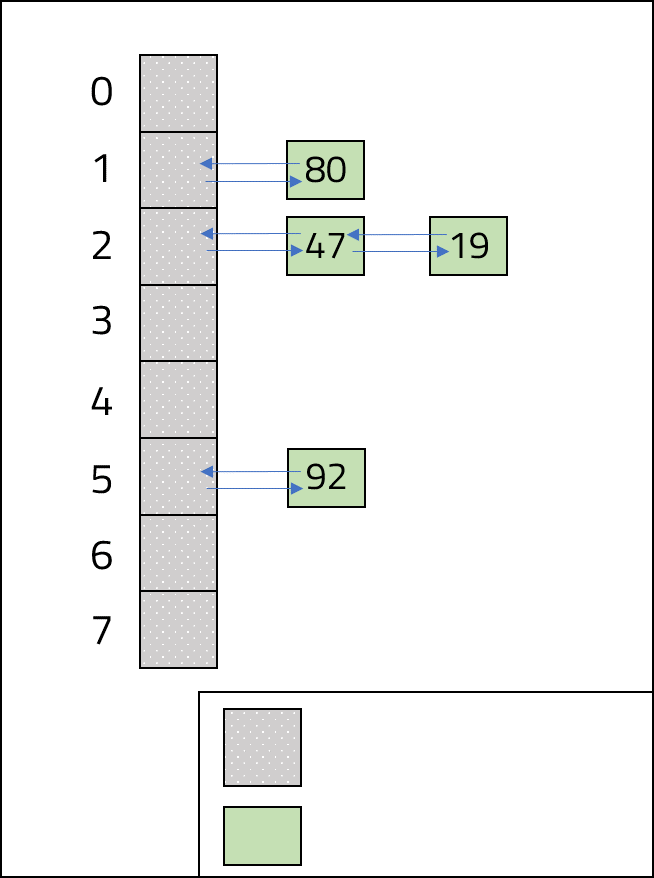
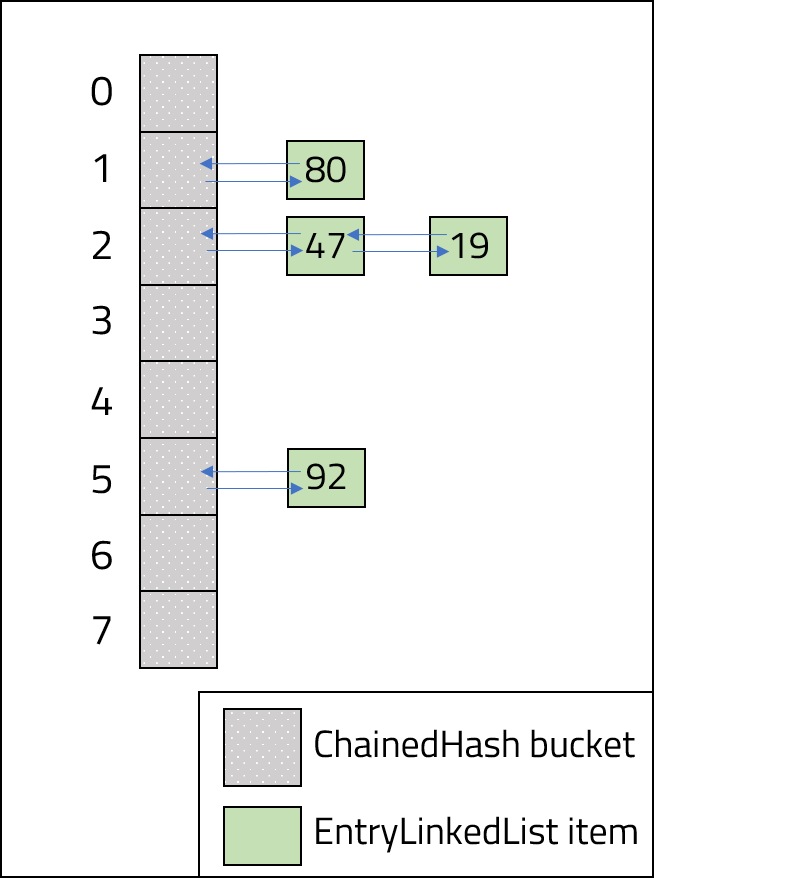
image update to post 6

Changed region(s): [[0.0917, 0.0615, 0.7951, 0.7688], [0.2446, 0.0, 1.0, 1.0], [0.367, 0.492, 0.581, 0.5843]]

diff --git a/src/pages/about.js b/src/pages/about.js
@@ -20,8 +20,8 @@ const AboutPage = () => (
         <CardBody>
           <p>Thank you for visiting my website.</p>
           <p>
-            I am a software engineer and enjoy building applications
-            with consideration to performance and optimization.
+            I am a software engineer and enjoy building full-stack applications, 
+            learning about the latest technologies and designing efficient algorithms.
           </p>
           <p>
             I completed my bachelors degree in Banking, Finance, and Management
@@ -49,7 +49,7 @@ const AboutPage = () => (
           <p>
             I currently work for Accenture as a software engineer. I have been
             able to build upon my skills in many areas, but focusing specifically with
-            Java and AWS. I continue to broaden my understanding of financial
+            Java, microservices and AWS. I continue to broaden my understanding of financial
             services; I actively participate in the UKI Blockchain
             community of practice and work predominantly with financial services
             clients.

diff --git a/src/blogInProgress/007_ChainingImplementation.md b/src/blogInProgress/007_ChainingImplementation.md
@@ -1,9 +1,10 @@
 ---
-title: 'Implementing closed addressing'
+title: 'Implementing chaining in hash tables'
 date: 2020-05-18 16:34:00
 author: 'Aneesh Mistry'
 featuredImage: ../images/007_Bariloche.jpg
-subtitle: 'Create a hash table that uses closed addressing to resolve hash collisions and rehashing to satisfy the load factor.'
+thumbnail: '../images/ChainedDiatn.jpg'
+subtitle: 'Create a hash table that uses chaining to resolve hash collisions and rehashing to enforce an optimal load factor.'
 time: '8'
 tags:
 - Java
@@ -11,44 +12,49 @@ tags:
 ---
 <br>
 <strong>Key Takeaways</strong><br>
-&#8226; Create a hash table that uses chaining to resolve hash collisions.<br>
-&#8226; Understand how LinkedLists can be used within the hash table.<br>
-&#8226; Use load factor to validate and update the number of buckets within the hash table.<br>
+&#8226; Write functions to enable a hash table to resolve collisions with chaining.<br>
+&#8226; Write a rehash function to recreate a hash table with a larger size.<br>
+&#8226; Use load factor to ensure the hash table has a sufficient number of buckets for its items.<br>
 
 <br>
 <h4>Chaining in a HashTable</h4>
 <p>
-Chaining, also known as closed addressing, is a technique used with hash tables and  hash maps to efficiently store the value of keys that have the same hash value.
-If you are unfamiliar with open and closed addressing, please visit my <a target="_blank" href="https://aneesh.co.uk/resolving-hash-collisions"><u>blog</u></a> where I explain their relationship with hash functions.<br>
-In this post, I will walk through the implementation of closed addressing whereby a hash table will allocate values into a LinkedList to resolve hash value collisions.
+Hash collisions occur within a hash table or hash map when multiple keys have the same output when run through the hash function. 
+Chaining, also known as closed addressing, is a technique used store the value of a key when a hash collision occurs.
+If you are unfamiliar with chaining, please visit my <a target="_blank" href="https://aneesh.co.uk/resolving-hash-collisions"><u>blog</u></a> where I explore hash collisions and solutions.<br>
+In this post, I will implement chaining with a hash table. The hash table will resolve collisions by storing the collided values into a LinkedList within the bucket.
 </p>
 
-<h4>Implementing chaining, step by step</h4>
+<h4>Implementing chaining</h4>
 <p>
-The chained hash table will consist of two classes: <code class="language-java">ChainedHash</code>, which will be the hash table, and <code class="language-java">EntryLinkedList</code>, which will be the LinkedList Object appended to each bucket of the ChainedHash.<br>
-A top-down view of the implementation is below:<br>
+The data structure that implements chaining will consist of two classes:<br>
+<code class="language-java">ChainedHash</code> is the hash table class.<br>
+<code class="language-java">EntryLinkedList</code> is the LinkedList Object appended to each bucket of the ChainedHash instance.<br>
+The diagram below illustrates how the two classes will be used together:<br>
 
-![Chained hash table diagram](../../src/images/007chainedDiagram.png)
+![Chained hash table diagram](../../src/images/007_chainedDiagram.png)
 
 <br>
-The ChainedHash will use the following methods:<br>
-&#8226; <strong>put(Key, Value)</strong> to place key-value pairs in the hash table.
-&#8226; <strong>hashFunction(Key)</strong> to calculate the hash value of the key.
-&#8226; <strong>validateLoadFactor()</strong> to ensure the upper bound load factor limit has not been breached through entries to the hash table.
+The ChainedHash class will use the following methods:<br>
+&#8226; <code class="language-java">put(key, value)</code> to place key-value pairs in the hash table.<br>
+&#8226; <code class="language-java">hashFunction(key)</code> to calculate the hash value of the key.<br>
+&#8226; <code class="language-java">validateLoadFactor()</code> to ensure the load factor of the hash table is monitored and adjusted as new entries are made.
 <br>
-The bucket at each hash table index will consist of an EntryLinkedList Object which contains the variables: key (String), value (int) and nextListEntry (EntryLinkedList). <code class="language-java">nextListEntry</code> will be used to create additional values in each bucket.
+The bucket at each hash table index will include an <code class="language-java">EntryLinkedList</code> instance which contains the variables:<br>
+<code class="language-java">String key</code> to store the key.<br>
+<code class="language-java">int value</code> to store the value.<br>
+<code class="language-java">EntryLinkedList nextListEntry</code> to link additional key-value pairs to the bucket.<br>
 </p>
 <strong>Class: EntryLinkedList</strong>
 <p>
-
-The EntryLinkedList constructor will instantiate the key, value and nextEntryPosition.
-There are getters and setters for the value and nextEntryPosition, and getter for the key.<br>
+The EntryLinkedList constructor will instantiate the key, value and nextListEntry.
+There are getters and setters for the value and nextListEntry, and a getter for the key.<br>
 
 ```java{numberLines: true}
     private String key;
     private int value;
     private EntryLinkedList nextListEntry;
-
+        
     EntryLinkedList(String key, int value) {
         this.key = key;
         this.value = value;
@@ -60,7 +66,7 @@ There are getters and setters for the value and nextEntryPosition, and getter fo
 <br>
 <strong>Class: ChainedHash</strong>
 <p>
-The ChainedHash class instantiates its buckets from the constructor. The MAX_LOAD_FACTOR is a constant value the load factor will be reviewed against. When the ChainedHash is created, all buckets are instantiated to null.
+The ChainedHash class instantiates its buckets from the constructor. <code class="language-java">MAX_LOAD_FACTOR</code> is a constant value the load factor will  remain under for the hash table. When the MAX_LOAD_FACTOR is breached by the hash table load factor, the hash table will rehash into a larger hash table. The constructor will instantiate all buckets to null.
 <br>
 
 ```java{numberLines: true}
@@ -82,10 +88,10 @@ The ChainedHash class instantiates its buckets from the constructor. The MAX_LOA
 ```
 
 <br>
-A hashFunction is created to calculate the hash value of the key. The method will sum the ascii values of the string and return the modulo of the sum against the number of buckets:<br>
+A <code class="language-java">hashFunction(String key)</code> method is used to calculate the hash value of the key passed in. The method will sum the ascii values of the String and return the modulo of the sum against the number of buckets:<br>
 
 ```java{numberLines: true}
-public static int hashFunction(String key) {
+    public static int hashFunction(String key) {
 
         int asciiValue = 0;
         for (int i = 0; i < key.length(); i++) {
@@ -99,9 +105,52 @@ public static int hashFunction(String key) {
     }
 ```
 <br>
-To add a new key and value into the hash table, the put(Key, Value) function is used.<br>
-In the method below, the hash value is calculated on line 2. On line 5, the load factor is evaluated to being less than the MAX_LOAD_FACTOR constant. This method is reviewed later in detail. On line 7, a check is performed if the hash value does not already contain an EntryLinkedList otherwise a new EntryLinkedList is created.  <br>
-If EntryLinkedList is null, the put method will create a new EntryLinkedList and populate the first position with the value (line 9). If there already exists an EntryLinkedList, the method will loop over the existing list to either replace the value of the existing key (line 20) or append the next value into the EntryLinkedList (line 23).
+The validateLoadFactor method is called within the put method to ensure the load factor of the hash table is not greater than the MAX_LOAD_FACTOR constant. If the load factor is greater than MAX_LOAD_FACTOR, the numberOfBuckets static value is doubled and the hash table is replaced with double the number of buckets by calling the <code class="language-java">rehash()</code> method.
+
+```java{numberLines: true}
+    private void validateLoadFactor() {
+        if(calculateLoadFactor() > MAX_LOAD_FACTOR){
+            System.out.println("Current load factor: " + calculateLoadFactor() );
+            numberOfBuckets = numberOfBuckets * 2;
+            System.out.println("Buckets raised to: " + numberOfBuckets + " buckets.");
+            this.rehash();
+        }
+    }
+```
+<br>
+The rehash method will create a temporary EntryLinkedList array that copies the existing buckets (<code class="language-java">temp</code>). On line 5, the existing EntryLinkedList is replaced by a new array with double the number of buckets. On line 6, the <code class="language-java">numberOfEntries</code> static value is reset to ensure the new load factor is correctly recalculated. The method will loop through the previous entries in the <code class="language-java">temp</code> array and will add them into the new EntryLinkedList. Note, the hash function is also adjusted to the new <code class="language-java">numberOfEntries</code> value and will therefore compute new index positions for each key into the new EntryLinkedList array. 
+
+```java{numberLines:true}
+  private void rehash(){
+
+        EntryLinkedList[] temp = hashTableBuckets;
+
+        hashTableBuckets = new EntryLinkedList[numberOfBuckets];
+        numberOfEntries = 0;
+        for(int i = 0; i< temp.length; i++){
+            if(temp[i] != null){
+                this.put(temp[i].getKey(), temp[i].getValue());
+
+                while(temp[i].getNextListEntry()!= null){
+                    this.put(temp[i].getNextListEntry().getKey(), temp[i].getNextListEntry().getValue());
+                    temp[i] = temp[i].getNextListEntry();
+                }
+            }
+        }
+    }
+
+
+```
+<br>
+The diagram below illustrates the change made to the hash table following a rehash as it doubles in size and realigns each key-value pair.<br>
+
+![Rehash diagram](../../src/images/007_Rehash.png)
+
+<br>
+
+The <code class="language-java">put(key, value)</code> method is used to add a new key-value pair into the hash table.<br>
+In the code snippet below, the <code class="language-java">hashFunction(key)</code> method is used on line 2. On line 5, the load factor is verified against the MAX_LOAD_FACTOR. On line 7, the function checks it the existing hashFunction value has its own EntryLinkedList.
+If EntryLinkedList is null, the put method will create a new EntryLinkedList and populate the first position with the value (line 9).<br> If there already exists an EntryLinkedList in the bucket, the method will loop over (line 14) the existing EntryLinkedList array to either replace the value of the existing key (line 20) or append the value into the next position on the EntryLinkedList (line 23).
 
 ```java{numberLines: true}
     public void put(String key, int value) {
@@ -130,58 +179,31 @@ If EntryLinkedList is null, the put method will create a new EntryLinkedList and
         }
     }
 ```
+
+
+
 <br>
-The validateLoadFactor method will be used to ensure the new load factor of the hash table is not greater than the MAX_LOAD_FACTOR constant. If the load factor is greater than MAX_LOAD_FACTOR, the hash table is replaced by a new one that has double the size of the buckets in the rehash method.
+<strong>Using the hash table from the main method</strong>
+<br>
+The main method will begin by instantiating a ChainedHash instance with 8 buckets. The table will then call the put method followed by the <code class="language-java">printEntryLinkedList()</code> method which will will print each entry of the hash table as it exists.<br>
 
 ```java{numberLines: true}
-  private void validateLoadFactor() {
-        if(calculateLoadFactor() > MAX_LOAD_FACTOR){
-            System.out.println("Current load factor: " + calculateLoadFactor() );
-            numberOfBuckets = numberOfBuckets * 2;
-            System.out.println("Buckets raised to: " + numberOfBuckets + " buckets.");
-            this.rehash();
-        }
-    }
-```
-<br>
-The rehash method is used to create a new hash table with the existing key-value pairs included. The new hash table will include double the number of buckets to reduce the load factor. On line 8, the key-value pairs from the preexisting hash table are reallocated buckets into the new hash table. 
+    ChainedHash hashTable = new ChainedHash(8);
 
-```java{numberLines:true}
- private void rehash(){
-
-        EntryLinkedList[] temp = hashTableBuckets;
-
-        hashTableBuckets = new EntryLinkedList[numberOfBuckets];
-        for(int i = 0; i< numberOfBuckets /2; i++){
-            if(temp[i] != null){
-                this.put(temp[i].key, temp[i].value);
-            }
-        }
-    }
-
-```
-<br>
-<strong>Pulling it together in the main method</strong>
-<br>
-In the main class, the hash table is tested by creating an instance with entries. There are many System.out.println() lines to help with the analysis of the hash table. An additional method <code class="language-java">printEntryLinkedList()</code> is also used to print out the entries in the hash table.
-
-```java{numberLines: true}
-   ChainedHash hashTable = new ChainedHash(4);
-
+        System.out.println("First entry (Alex, 47)..");
         hashTable.put("Alex", 47);
-        System.out.println("Printing the hash table: ");
         hashTable.printEntryLinkedList();
 
-        hashTable.put("George", 80);
         System.out.println("\nOne more entry (George, 80)..");
+        hashTable.put("George", 80);
         hashTable.printEntryLinkedList();
 
-        hashTable.put("Phillip", 19);
         System.out.println("\nOne more entry (Phillip, 19)..");
+        hashTable.put("Phillip", 19);
         hashTable.printEntryLinkedList();
 
-        hashTable.put("Eliza", 97);
         System.out.println("\nOne more entry (Eliza, 97)..");
+        hashTable.put("Eliza", 97);
         hashTable.printEntryLinkedList();
 
         System.out.println("\nOne more entry (John, 90)..");
@@ -192,17 +214,22 @@ In the main class, the hash table is tested by creating an instance with entries
         hashTable.put("Lin", 16);
         hashTable.printEntryLinkedList();
 
-        System.out.println("\nOne more entry (Miranda, 80)..");
-        hashTable.put("Miranda", 80);
+        System.out.println("\nOne more entry (Miranda, 84)..");
+        hashTable.put("Miranda", 84);
         hashTable.printEntryLinkedList();
 
         System.out.println("\nTotal collisions: " + numberOfCollisions);
 
 ```
-The output from the main class:
+<strong>Output from the main class</strong>
+<br>
+The output will show the prompt before the entry is made followed by the hash table as it exists. On the third put call (line 8), the key-value pair of (Phillip, 19) maps into index position 2. As a result of the collision, the value of Phillip is appended to the EntryLinkedList instance with (Alex, 47). When the 7th entry is made on line 22 (Miranda, 84), the load factor of the hash table is evaluated to 0.875. As the load factor exceeds the 0.75 MAX_LOAD_FACTOR constant, the hash table is doubled in size to 16 buckets and each entry of the existing hash table is recalculated.<br>
+At line 25, the final output of the hash table shows the different index position for almost all the key-value pairs as a result of the new hash function. There are also no collisions due to the increased number of buckets.
+<br>
+The efficiency of the hash table can be evaluated against the number of collisions that are created (as a result of the hash function) and the number of times a rehash is performed. Collisions with the chaining design retain constant time access, however rehashing will create a performance cost as each entry must be recalculated and entered to the hash table.  
 
-```
-Printing the hash table: 
+```{numberLines: true}
+First entry (Alex, 47).. 
 [hash value='2', key='Alex', value=47], null
 
 One more entry (George, 80)..
@@ -212,51 +239,44 @@ One more entry (George, 80)..
 One more entry (Phillip, 19)..
 [hash value='1', key='George', value=80], null
 [hash value='2', key='Alex', value=47], [hash value='2', key='Phillip', value=19], null
-Current load factor: 1.0
-Buckets raised to: 8 buckets.
 
 One more entry (Eliza, 97)..
-[hash value='1', key='George', value=80], [hash value='5', key='Eliza', value=97], null
-[hash value='2', key='Alex', value=47], null
+[hash value='1', key='George', value=80], null
+[hash value='2', key='Alex', value=47], [hash value='2', key='Phillip', value=19], null
+[hash value='5', key='Eliza', value=97], null
 
 One more entry (John, 90)..
-Current load factor: 0.875
-Buckets raised to: 16 buckets.
-[hash value='15', key='John', value=90], null
-[hash value='9', key='George', value=80], null
-[hash value='10', key='Alex', value=47], null
+[hash value='1', key='George', value=80], null
+[hash value='2', key='Alex', value=47], [hash value='2', key='Phillip', value=19], null
+[hash value='5', key='Eliza', value=97], null
+[hash value='7', key='John', value=90], null
 
 One more entry (Lin, 16)..
+[hash value='1', key='George', value=80], null
+[hash value='2', key='Alex', value=47], [hash value='2', key='Phillip', value=19], null
 [hash value='3', key='Lin', value=16], null
-[hash value='15', key='John', value=90], null
+[hash value='5', key='Eliza', value=97], null
+[hash value='7', key='John', value=90], null
+
+One more entry (Miranda, 84)..
+Load factor is too high: 0.875
+Buckets raised to: 16 buckets.
+[hash value='2', key='Phillip', value=19], null
+[hash value='3', key='Lin', value=16], null
+[hash value='12', key='Miranda', value=84], null
+[hash value='5', key='Eliza', value=97], null
 [hash value='9', key='George', value=80], null
 [hash value='10', key='Alex', value=47], null
-
-One more entry (Miranda, 80)..
-[hash value='3', key='Lin', value=16], null
 [hash value='15', key='John', value=90], null
-[hash value='9', key='George', value=80], null
-[hash value='10', key='Alex', value=47], null
-[hash value='12', key='Miranda', value=80], null
 
-
-Total collisions: 2
+Total collisions: 1
 ```
-<strong>Analysis</strong>
-<br>
-As each entry is made to the hash table the main method will print out the load factor if it invalidating the maximum load value and the number of buckets that are recreated. At the end of the runtime, the number of collisions are also printed to the console. <br>
-Analysis can be derived from the number of times the hash table needs to rehash and the number of collisions that are created. These two metrics can be useful to estimate the effectiveness of the hash table in using memory and the effectiveness of the hash function to assign each key to a unique index position.  
-
 </p>
-
 <br>
 <h4>Conclusion</h4>
 <p>
-The implementation of chaining in a hash table can be implemented with just a few methods that cover its dictionary operations. The performance
-of the hash table will have constant time for the dictionary operations making it easier to find and store values.<br>
-The optimization of the hash table is dependent on the load factor that can be derived and therefore leaves room to customise the configuration with 
-consideration to the use case.<br>
-The source code from this blog can be found on GitHub <a target="_blank" href="https://github.com/4neesh/HashTableChainingDemo">here</a>.
+The implementation of chaining in a hash table can be achieved with just a few methods that cover the load factor evaluation, rehash, and put. By experimenting with the hash function, MAX_LOAD_FACTOR and the number of buckets from instantiation, the performance of the hash table can be altered to reduce the number of rehashing required, the bunching of values and collisions.<br>
+The source code from this blog can be in my repository on <a target="_blank" href="https://github.com/4neesh/HashTableChainingDemo"><u>GitHub</u></a>.
 </p>
 
 <br>

diff --git a/src/posts/001helloWorld.md b/src/posts/001helloWorld.md
@@ -20,7 +20,7 @@ Fast-forward to the present day and I am starting a blog to document the areas o
 My experience with writing a dissertation, where I had to introduce the technologies involved (Big Data and Blockchain) allowed me to appreciate the process and value of understanding a technical concept to its core. My blog will support me with the opportunity to write bite-sized posts on how and why the technologies I use work.
 </p>
 <p>
-My expectations for this blog are that it will surround all areas of Java, Spring, and AWS.<br>
+My expectations for this blog are that it will surround all areas of Java, Spring, and algorithms.<br>
 Despite this, the deluge of questions that arrive each day from my search for answers will no doubt broaden the context.<br>
 Nevertheless, I am creating this website for my enjoyment and with the hope that you, the reader, may also benefit from one of the many challenges I overcome as an engineer.
 </P>

diff --git a/src/blogInProgress/blog_template.md b/src/blogInProgress/blog_template.md
@@ -3,6 +3,7 @@ title: 'xxx'
 date: 2020-04-27 16:34:00
 author: 'Aneesh Mistry'
 featuredImage: ../images/xxx.png
+thumbnail: ''
 subtitle: 'xxx'
 time: 'xx'
 tags:
